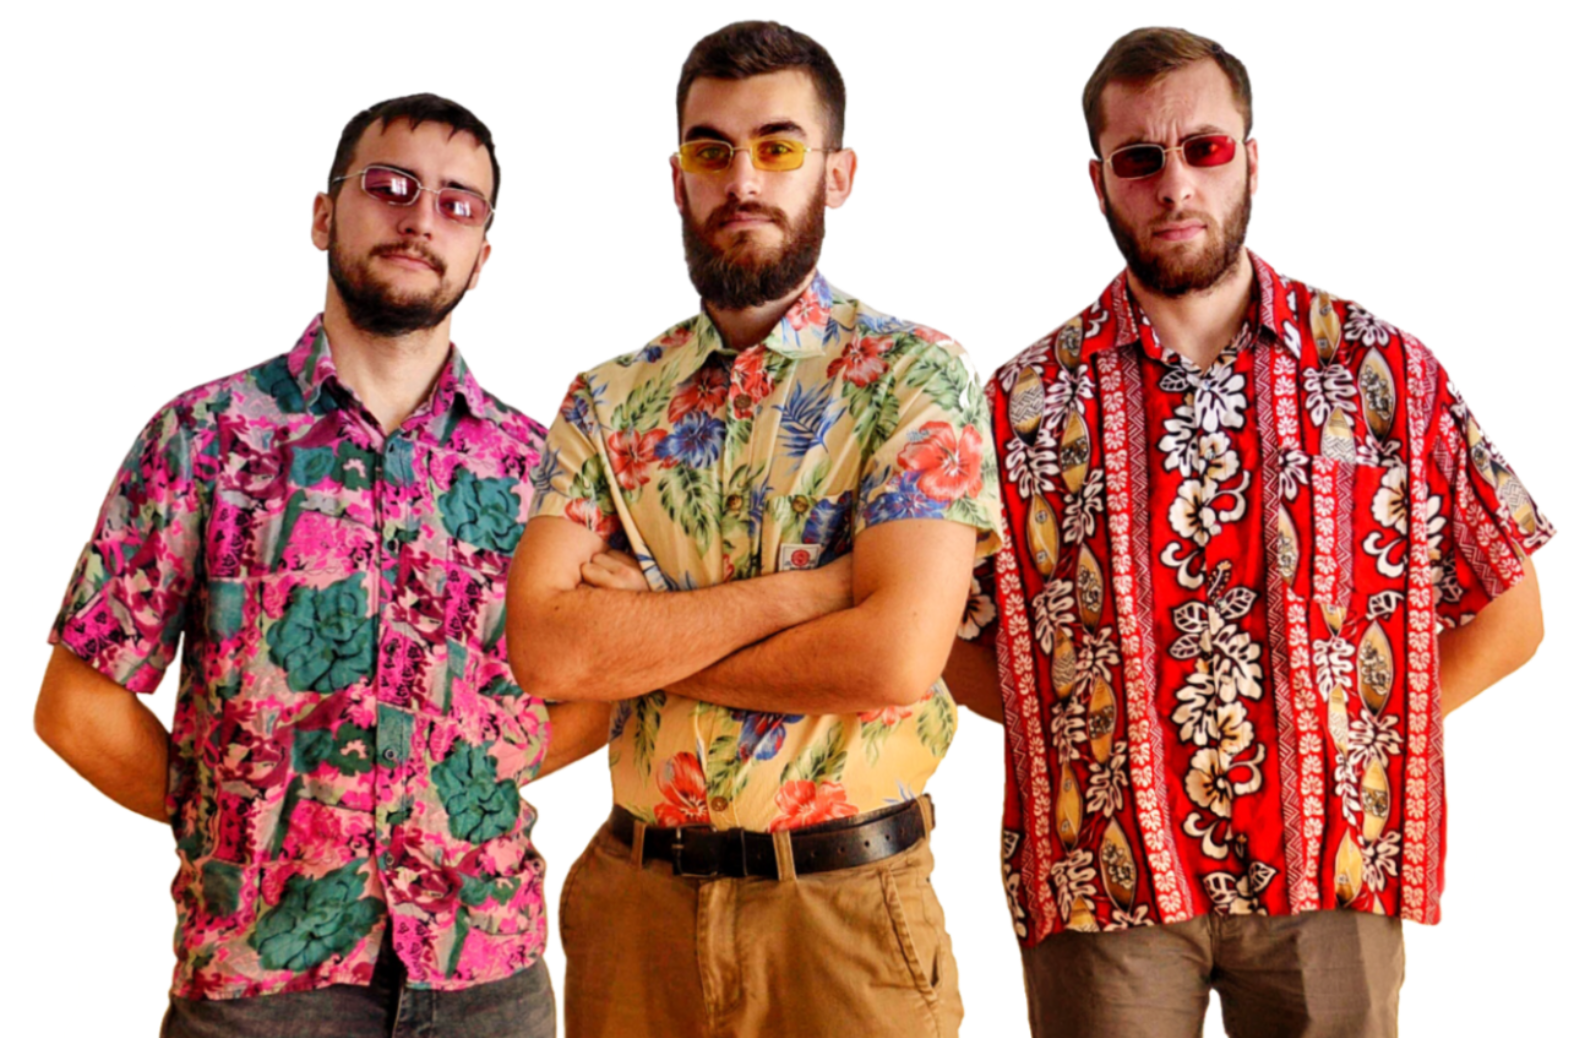
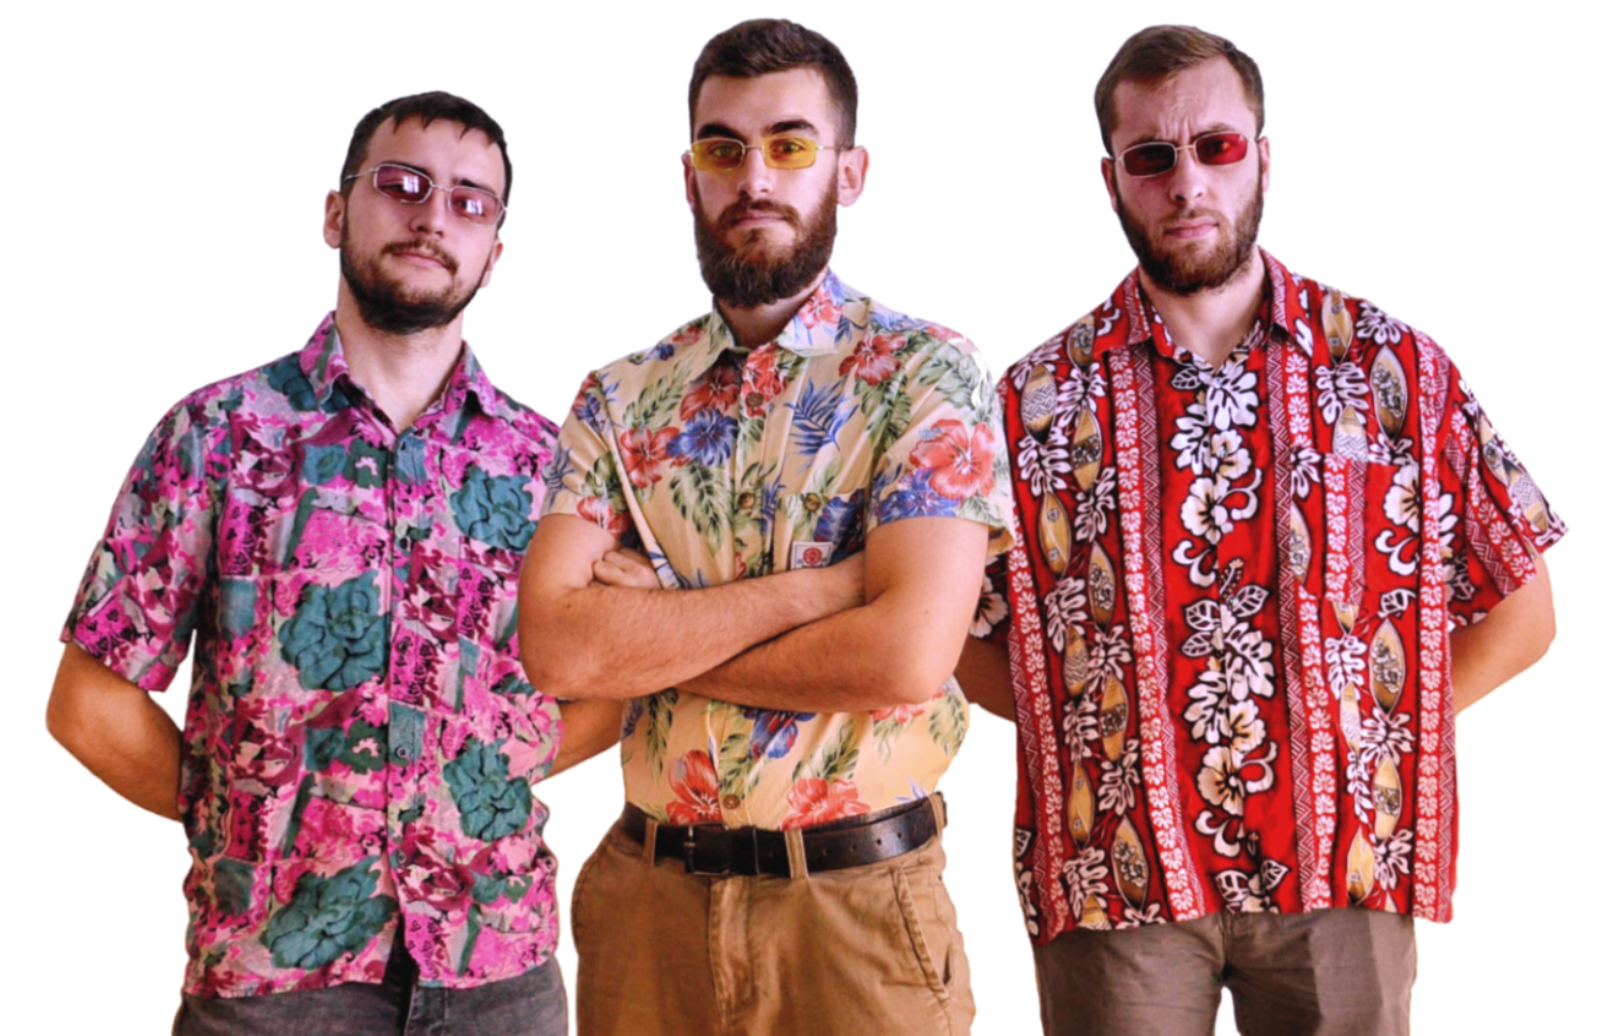
changement image mouflaquette + amélioration texte footer

diff --git a/src/components/Footer.vue b/src/components/Footer.vue
@@ -1,7 +1,7 @@
 <template>
     <footer>
-        <p>Nous contacter : <a href="mailto:mouflaquettes@gmail.com" target="_blank" title="mouflaquettes@gmail.com">mouflaquettes@gmail.com</a></p>
-        <p>© All right reserved - created by <a href="www.antoinebarbier.fr" target="_blank" title="antoinearbier.fr">Antoine Barbier</a></p>
+        <p>Nous contacter : <a class="email" href="mailto:mouflaquettes@gmail.com" target="_blank" title="mouflaquettes@gmail.com">mouflaquettes@gmail.com</a></p>
+        <p>Tous droits réservés © 2020 mouflaquettes.fr  /  Mouflaquettes.fr est réalisé par<a class="site-du-createur" href="www.antoinebarbier.fr" target="_blank" title="antoinearbier.fr">Antoine Barbier</a></p>
     </footer>
 </template>
 
@@ -23,17 +23,17 @@ footer{
 
 }
 
-p{
+p,a{
     padding:5px;
+    color:rgba(255, 255, 255, 0.7);
 }
 
 a{
     color:white;
     text-decoration: none;
+    font-weight: 500;
 }
 
-a:hover{
-    border-bottom: 1px solid white;
-}
+
 
 </style>

diff --git a/src/components/content/historique.vue b/src/components/content/historique.vue
@@ -1,0 +1,21 @@
+<template>
+    <div class="bloc-historique">
+        <h4 class="title-historique">{{date}} - {{title}}</h4>
+        <p>{{text}}</p>
+    </div>
+    
+</template>
+
+<script>
+export default {
+    name:"historique",
+    props:{
+        date: String,
+        title: String,
+        text: String
+    }
+}
+</script>
+<style scoped>
+
+</style>

diff --git a/src/components/Notre-groupe.vue b/src/components/Notre-groupe.vue
@@ -19,7 +19,9 @@
                 lobortis enim. In vehicula tristique massa, at vestibulum diam placerat sed. Mauris a massa tincidunt, sollicitudin ante vel, 
                 tincidunt tellus.
             </p>
+            
         </div>
+        
         <h3>Notre histoire</h3>
     </div>
 </template>

diff --git a/public/index.html b/public/index.html
@@ -12,6 +12,7 @@
       <strong>We're sorry but <%= htmlWebpackPlugin.options.title %> doesn't work properly without JavaScript enabled. Please enable it to continue.</strong>
     </noscript>
     <div id="app"></div>
+    
     <!-- built files will be auto injected -->
   </body>
 </html>
